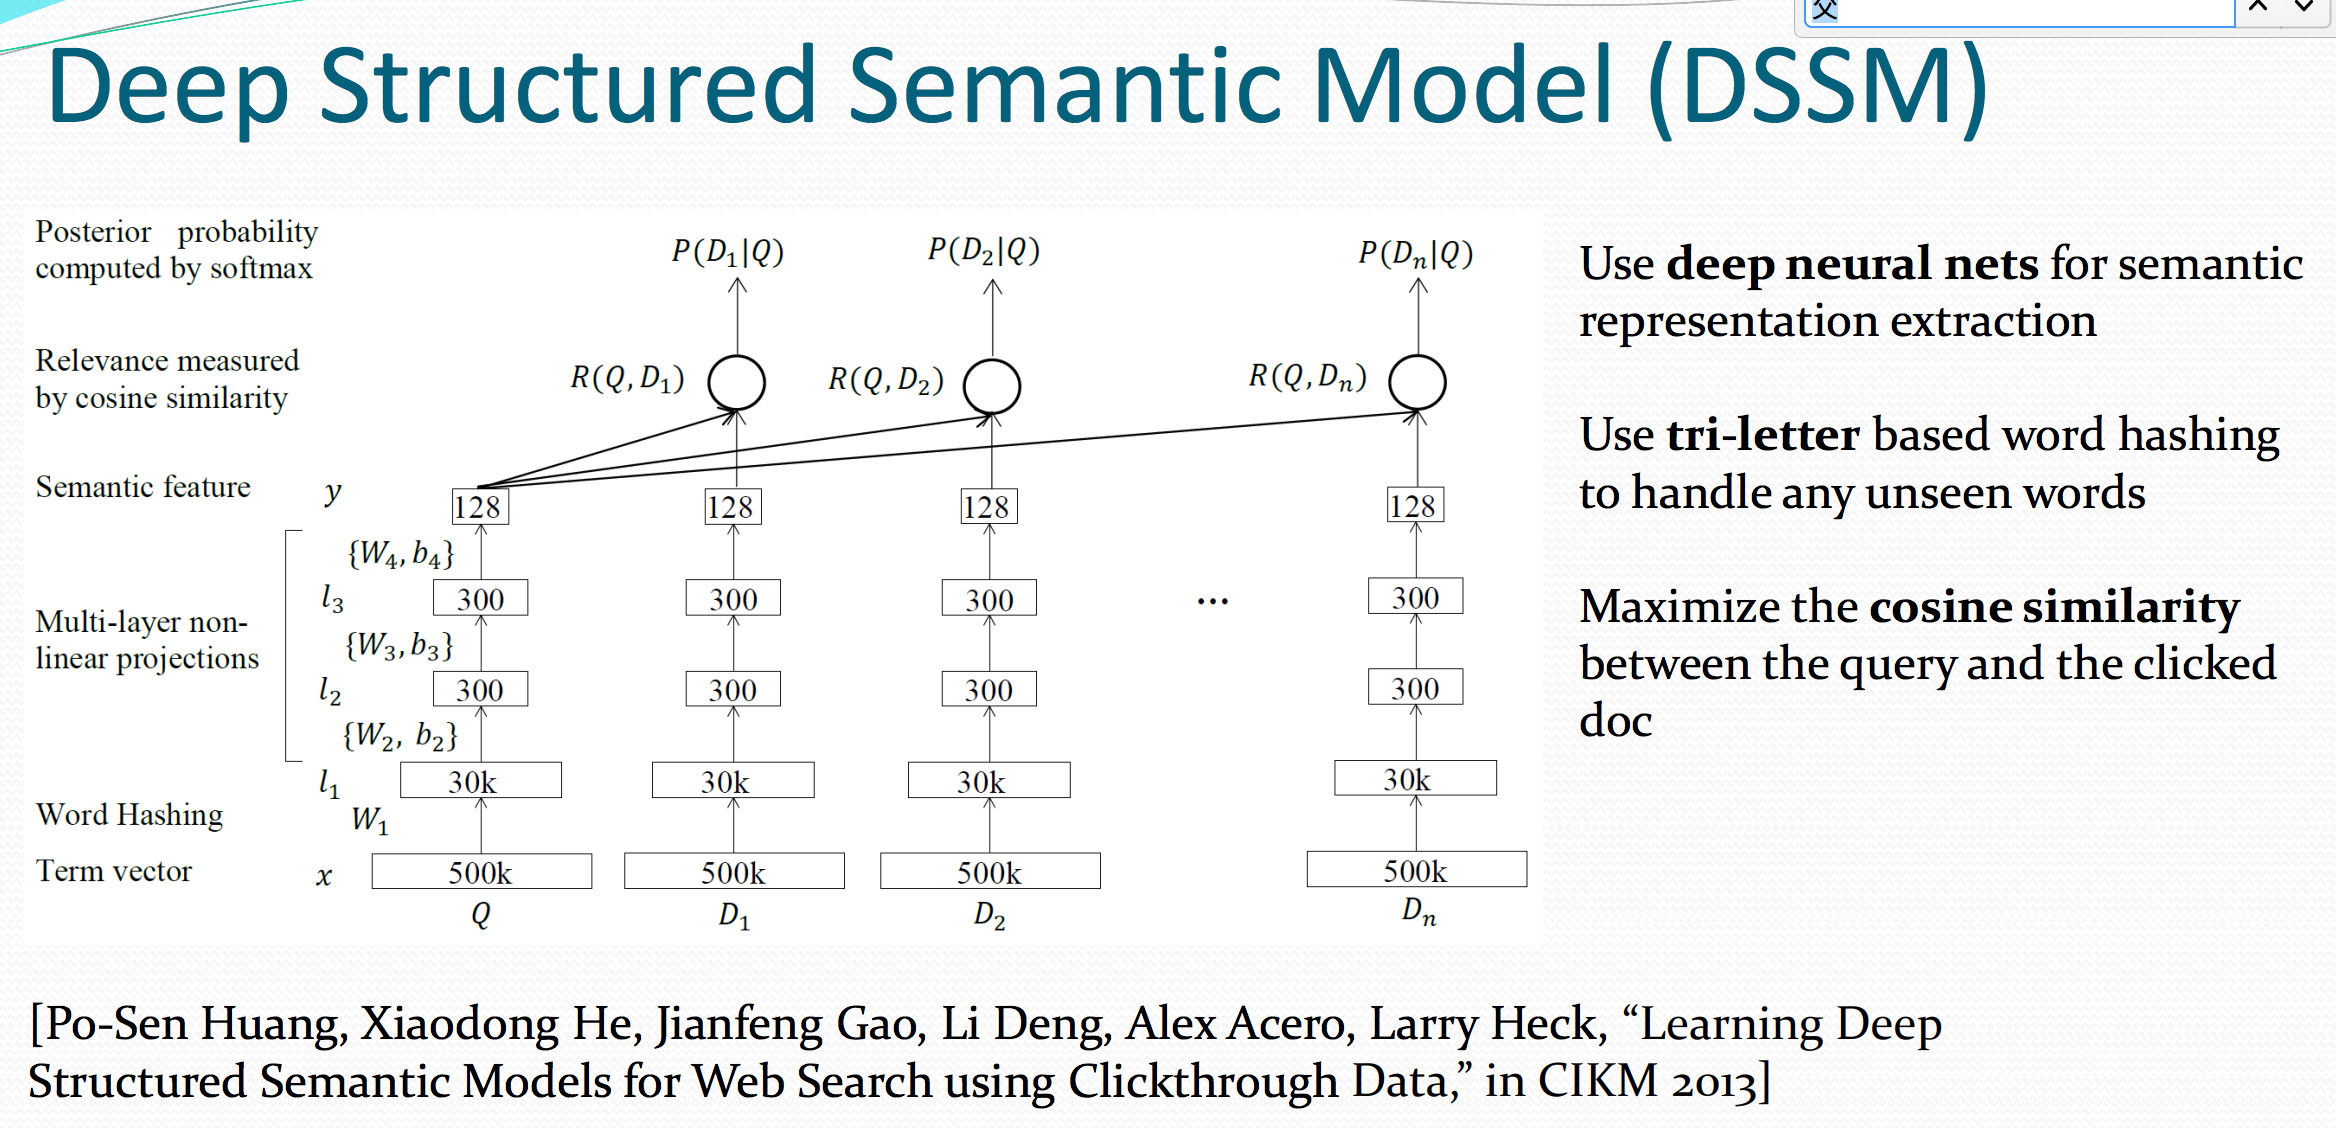
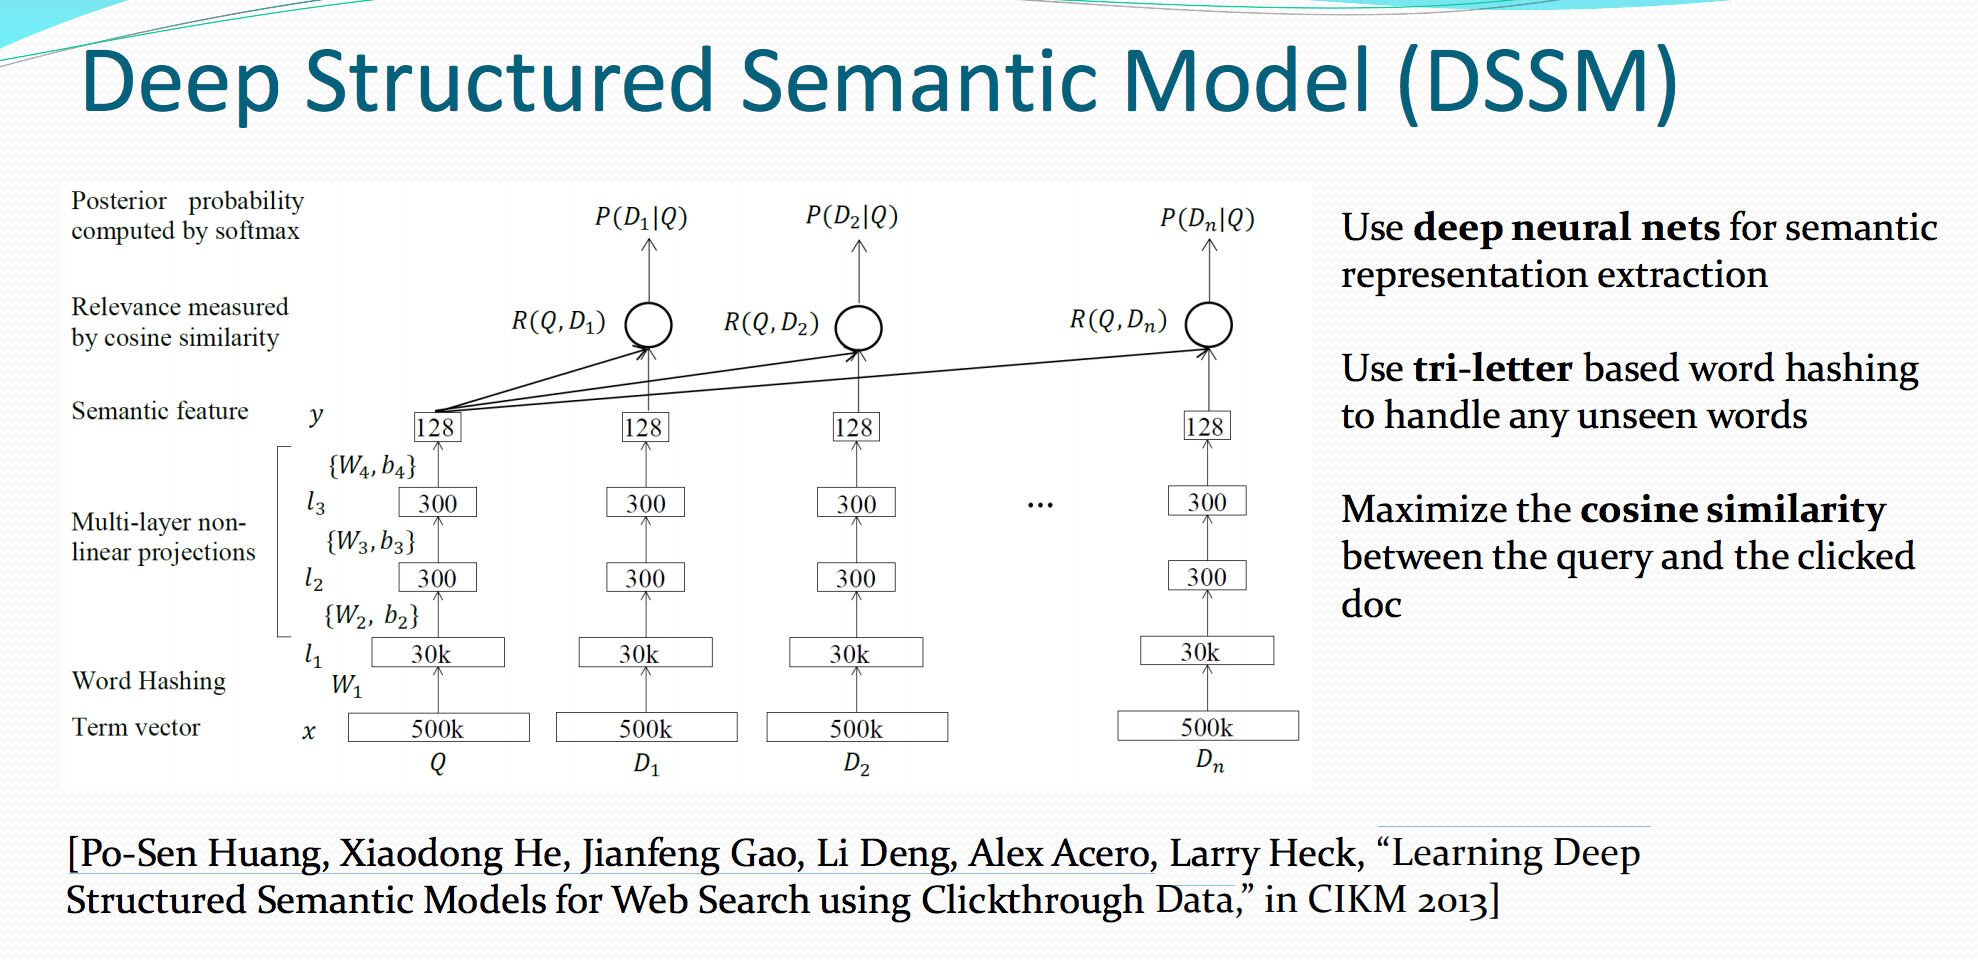
xx

diff --git a/_posts/2017-09-01-nlp-dssm.md b/_posts/2017-09-01-nlp-dssm.md
@@ -23,7 +23,7 @@ tags: [Modeling Interestingness with Deep Neural Networks, DSSM]
 <html>
 <br/>
 
-<img src='../assets/dssm_2013cikm.png' style='max-height: 400px'/>
+<img src='../assets/dssm_2013cikm.png' style='max-height: 350px'/>
 <br/>
 
 </html>
